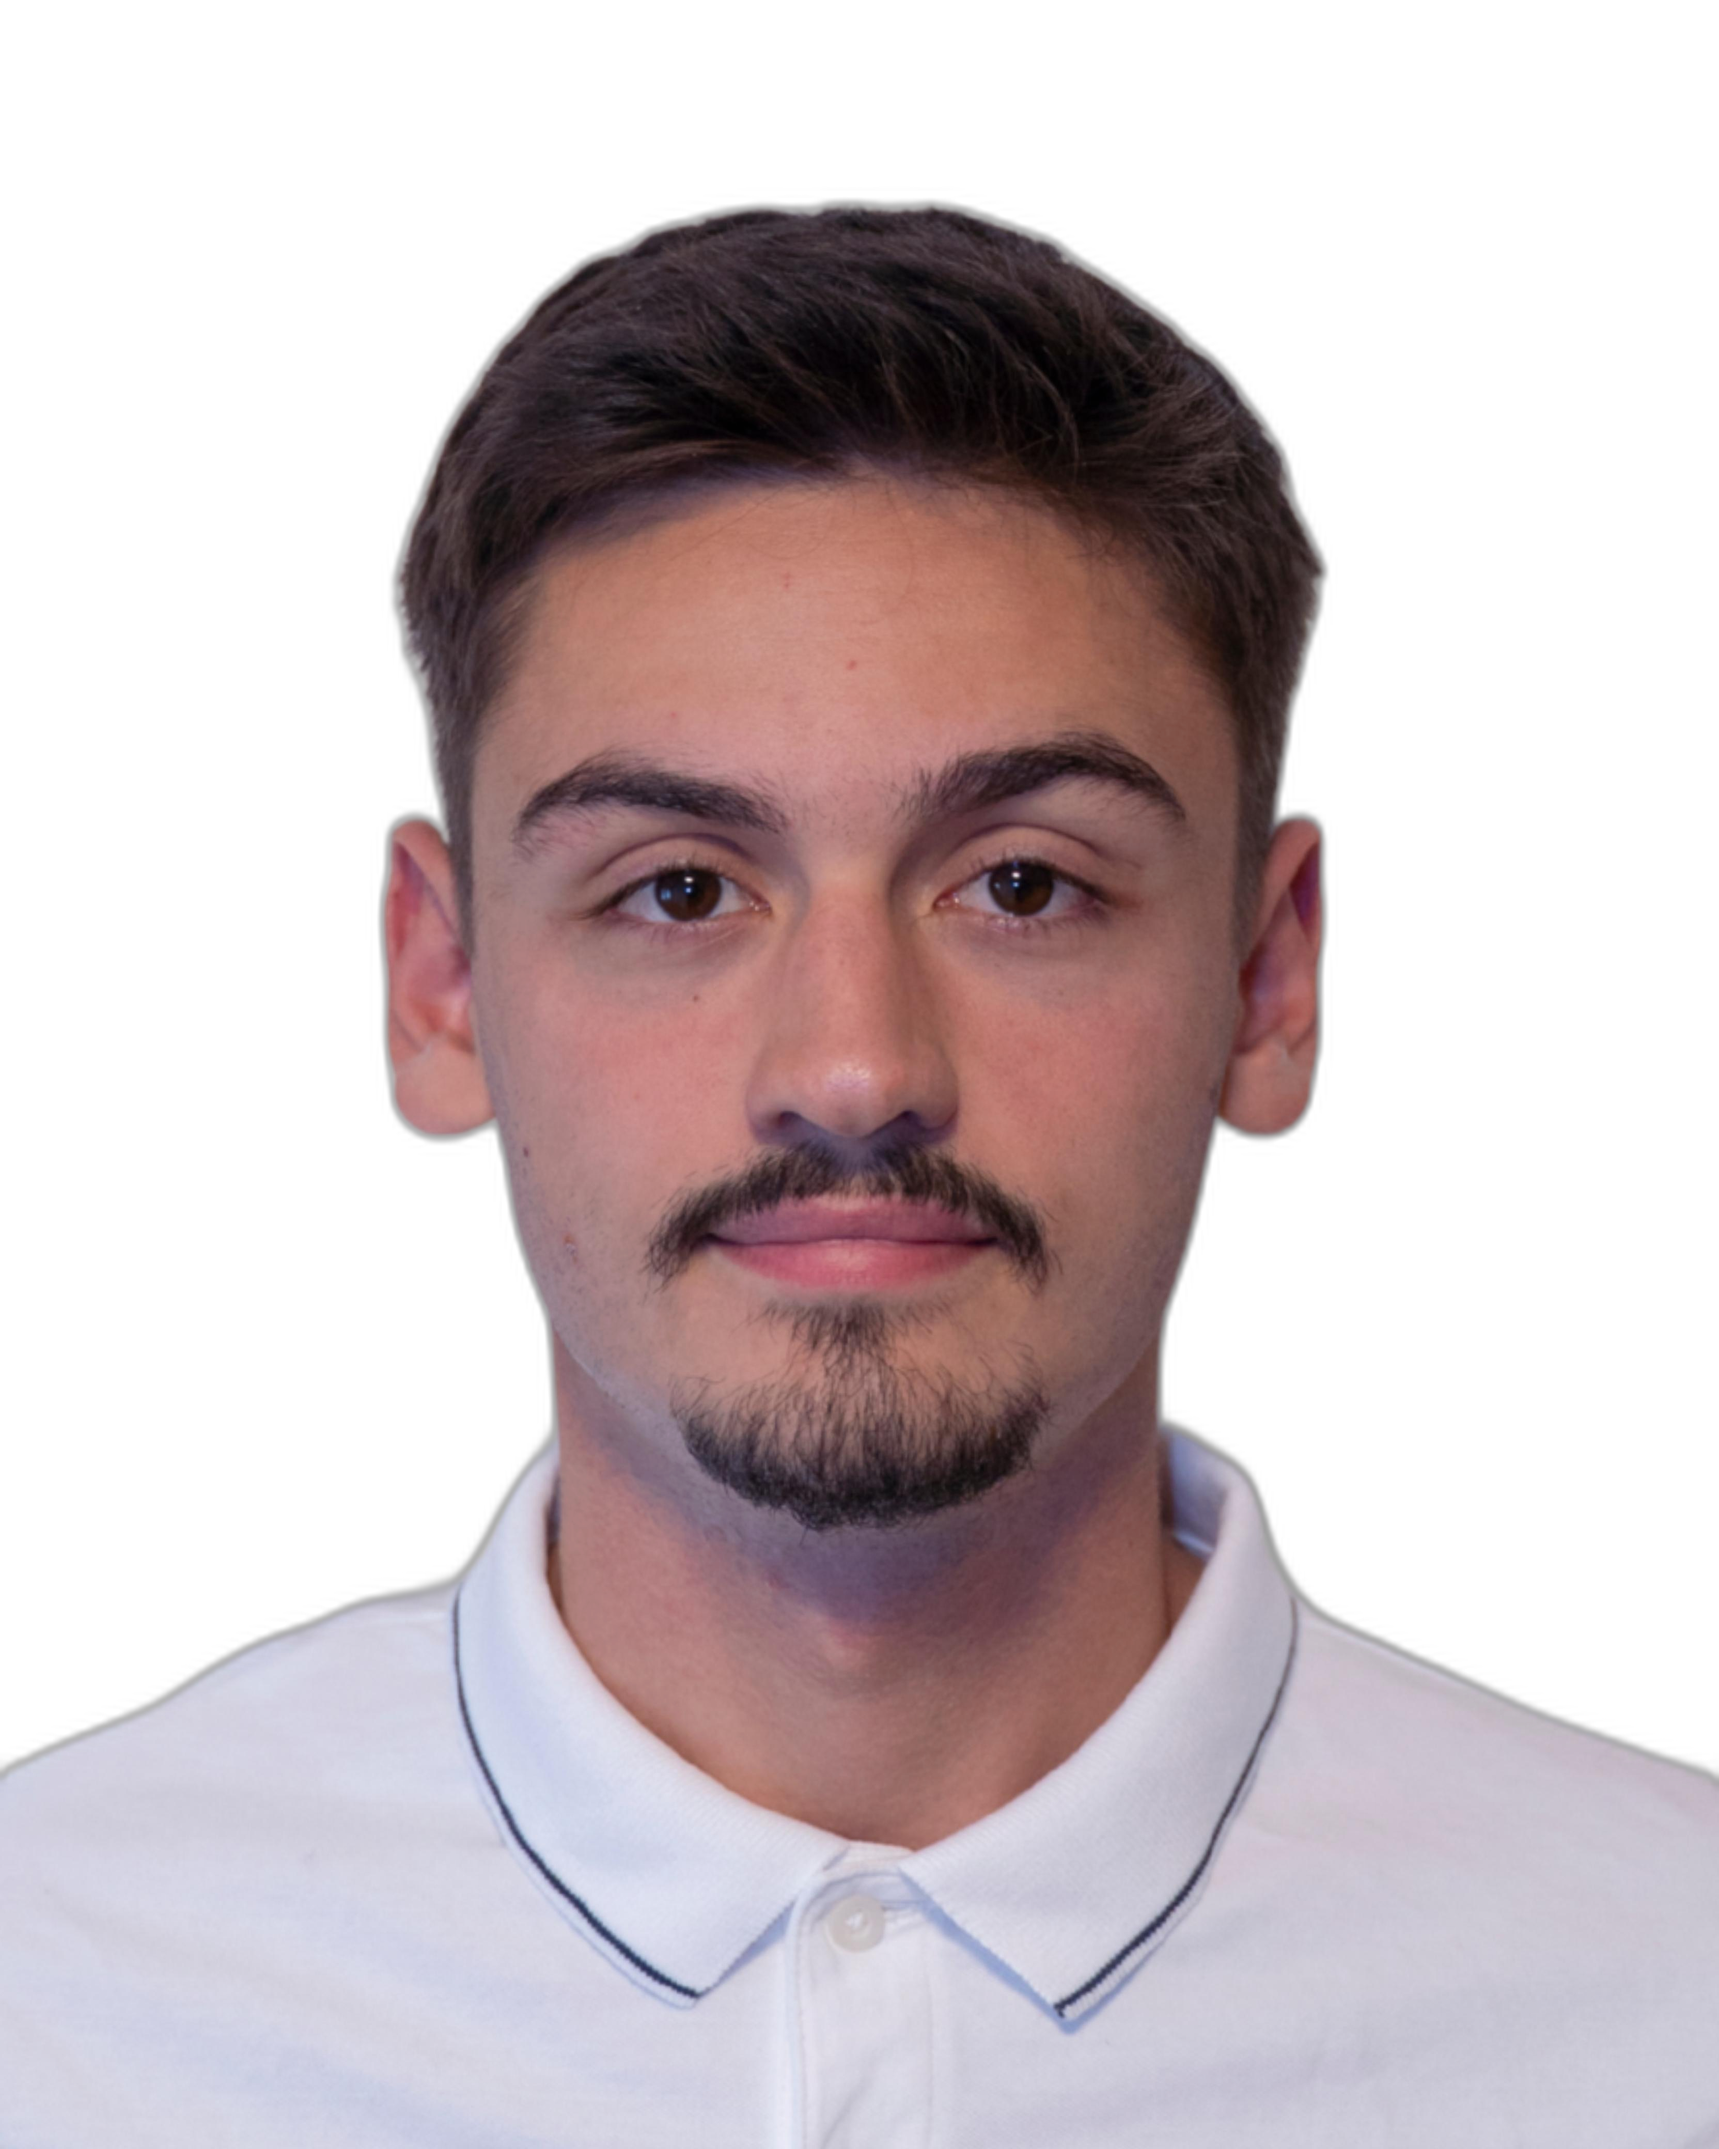
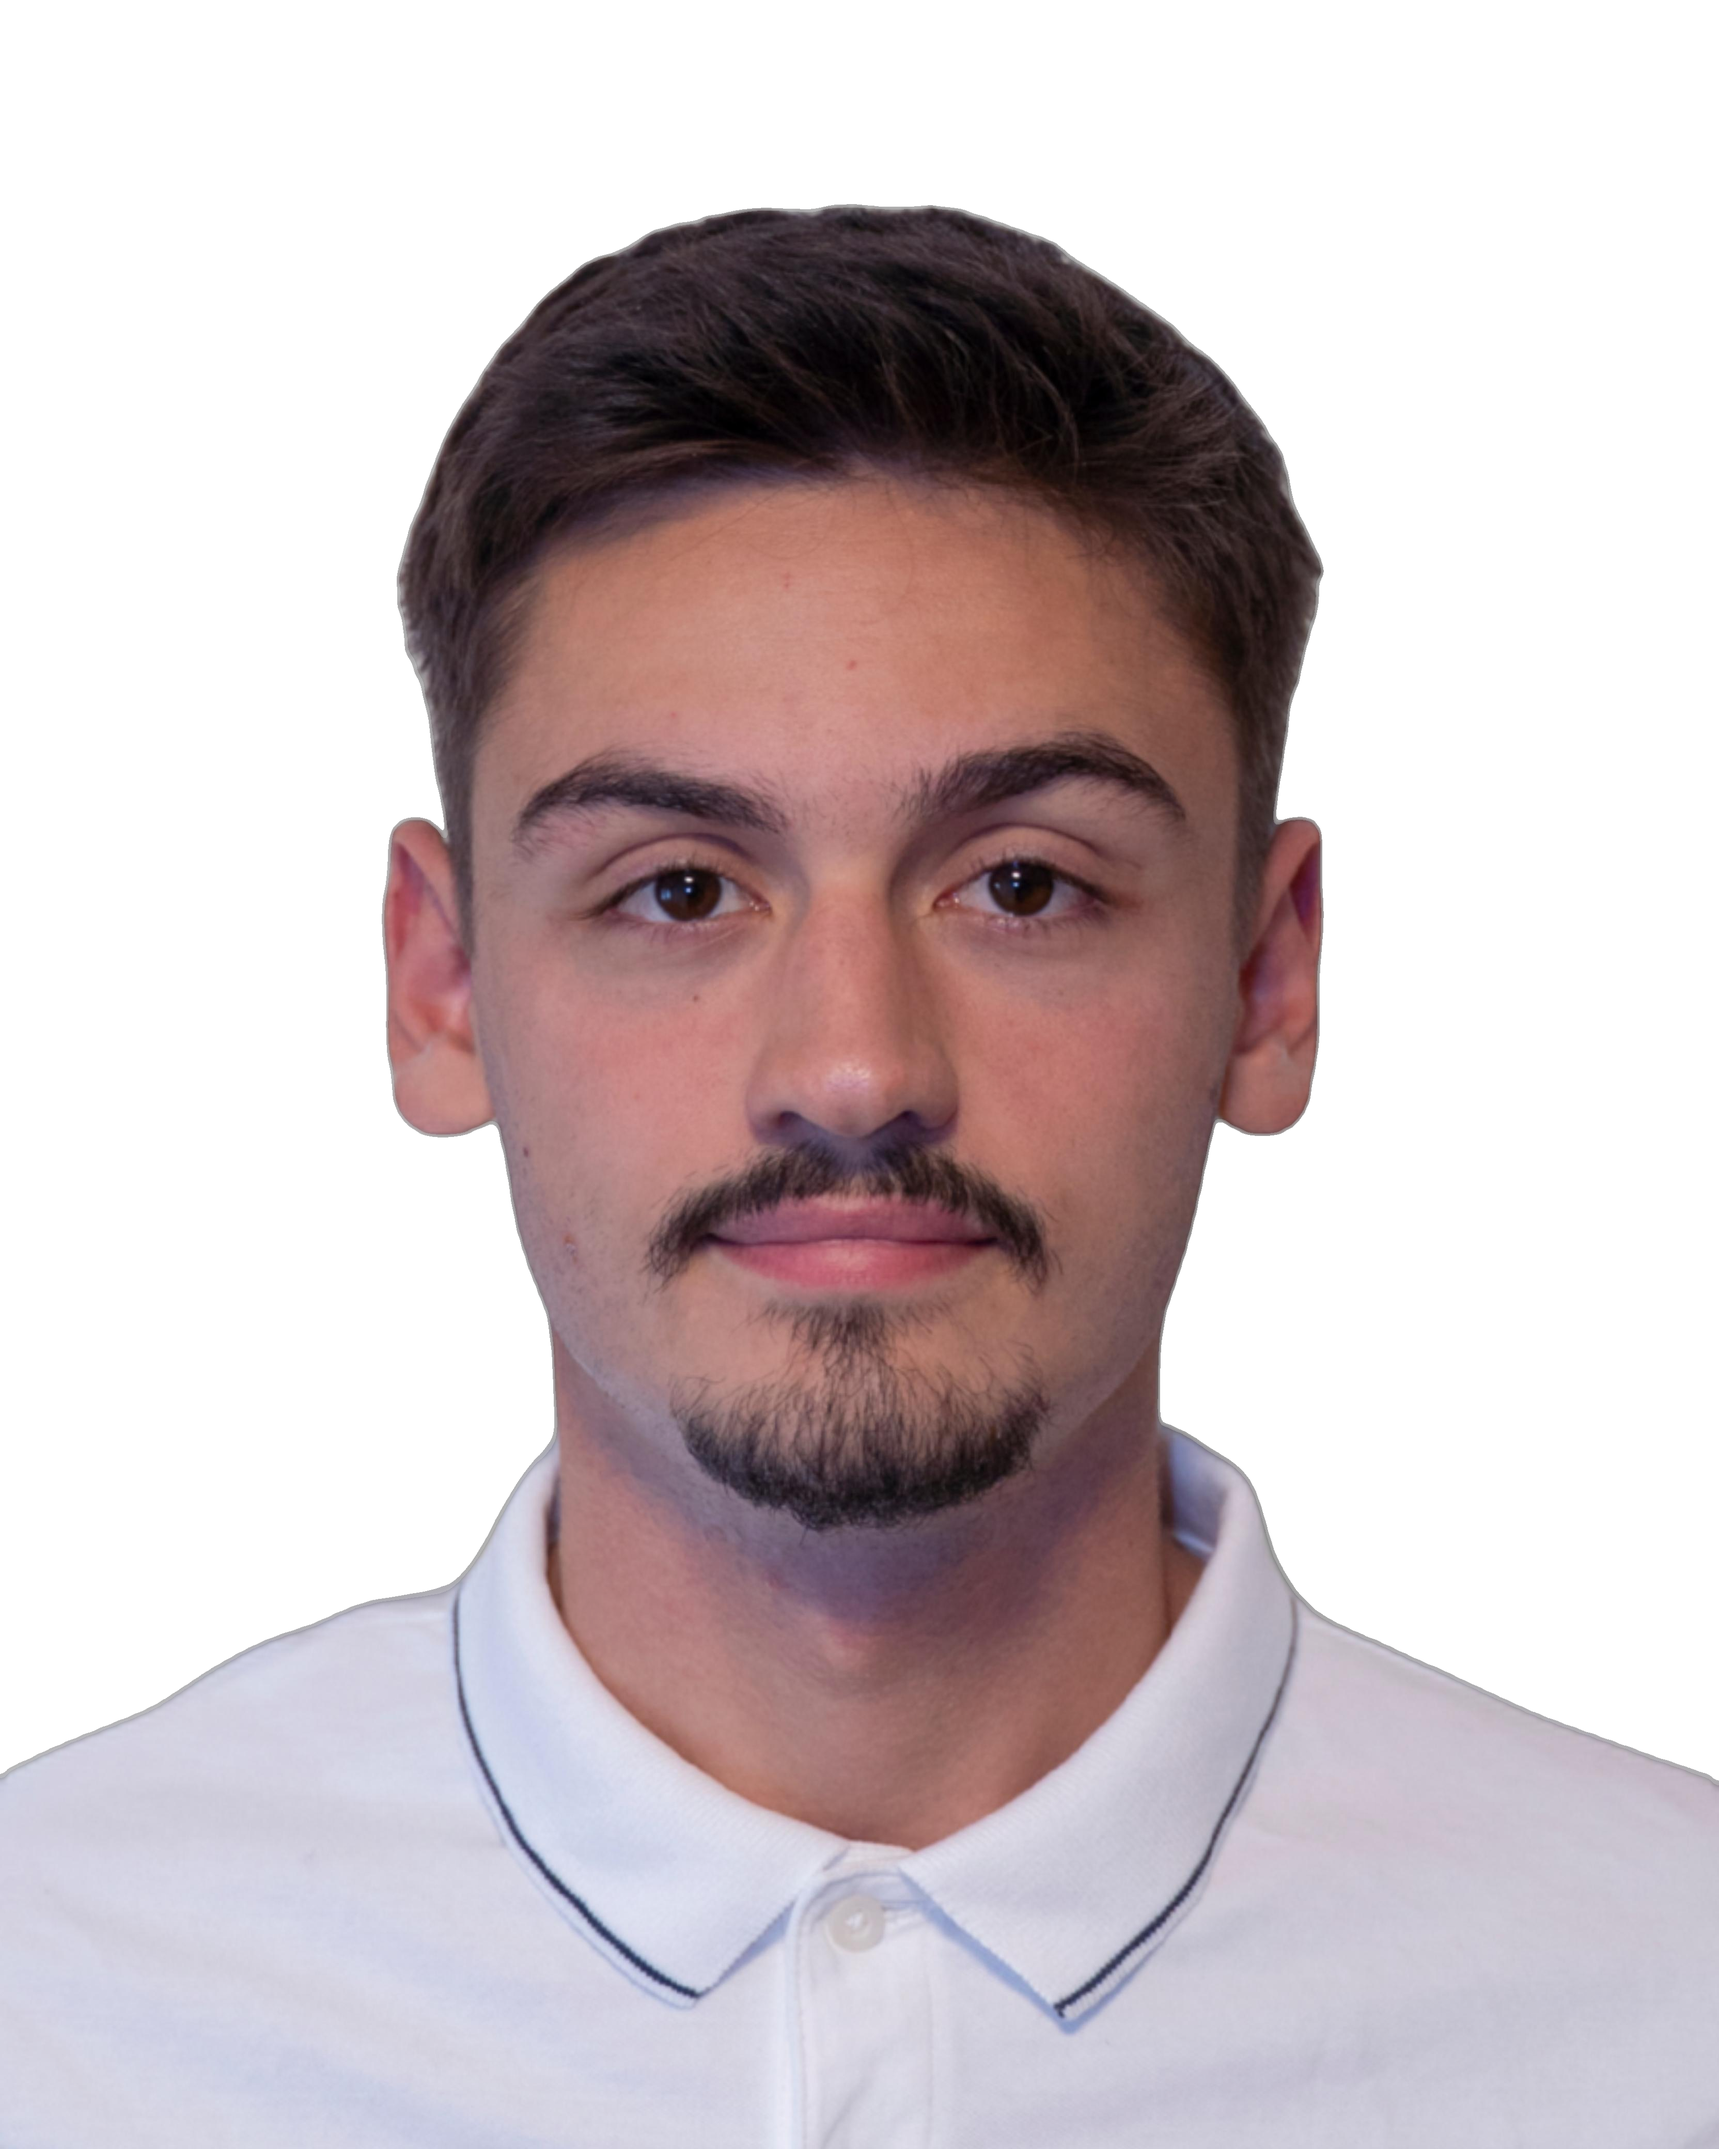
Redesign About section: portrait in white circle, clean layout
- Portrait displayed in white circular frame (180px mobile / 210px desktop)
- Removed floating badge and glow effects for cleaner presentation
- Stats row placed below portrait, properly aligned
- Regenerated portrait-nobg.png with improved background removal

diff --git a/app/page.tsx b/app/page.tsx
@@ -196,54 +196,63 @@ function LeistungenSection() {
 
 function AboutSection({ onContact }: { onContact: () => void }) {
   return (
-    <section id="about" className="py-10 md:py-32 bg-[#080808] border-t border-[#111]">
+    <section id="about" className="py-12 md:py-32 bg-[#080808] border-t border-[#111]">
       <div className="max-w-7xl mx-auto px-5 md:px-6 lg:px-10">
-        <div className="grid grid-cols-1 lg:grid-cols-2 gap-10 lg:gap-20 items-center">
+        <div className="grid grid-cols-1 lg:grid-cols-[1fr_1.2fr] gap-10 lg:gap-20 xl:gap-28 items-end">
 
-          {/* Photo */}
-          <motion.div
-            initial={{ opacity: 0, x: -40 }}
-            whileInView={{ opacity: 1, x: 0 }}
-            viewport={{ once: true }}
-            transition={{ duration: 0.9, ease: [0.16, 1, 0.3, 1] }}
-            className="relative flex justify-center lg:justify-start"
-          >
-            {/* Accent background shape */}
-            <div className="absolute bottom-0 left-1/2 -translate-x-1/2 lg:left-8 lg:translate-x-0 w-[240px] md:w-[300px] lg:w-[340px] h-[300px] md:h-[380px] lg:h-[440px] bg-[#CAFF00]/10 rounded-2xl" />
-            {/* eslint-disable-next-line @next/next/no-img-element */}
-            <img
-              src="/projects/portrait-nobg.png"
-              alt="DigitalFrame – Gründer"
-              className="relative z-10 w-[220px] md:w-[280px] lg:w-[340px] object-contain drop-shadow-2xl"
-            />
-            {/* Floating badge */}
-            <motion.div
-              initial={{ opacity: 0, scale: 0.8 }}
-              whileInView={{ opacity: 1, scale: 1 }}
-              viewport={{ once: true }}
-              transition={{ delay: 0.5, duration: 0.5 }}
-              className="absolute bottom-6 right-4 md:right-8 lg:-right-4 z-20 bg-[#0E0E0E] border border-[#1a1a1a] rounded-xl px-4 py-3 shadow-xl"
-            >
-              <div className="text-[#CAFF00] font-bold text-lg" style={{ fontFamily: "var(--font-syne)" }}>50+</div>
-              <div className="text-[#999] text-xs tracking-widest uppercase" style={{ fontFamily: "var(--font-outfit)" }}>Projekte</div>
-            </motion.div>
-          </motion.div>
-
-          {/* Text */}
+          {/* Portrait column */}
           <motion.div
             initial={{ opacity: 0, y: 30 }}
             whileInView={{ opacity: 1, y: 0 }}
             viewport={{ once: true }}
-            transition={{ duration: 0.8, ease: [0.16, 1, 0.3, 1], delay: 0.1 }}
+            transition={{ duration: 0.9, ease: [0.16, 1, 0.3, 1] }}
+          >
+            {/* Photo frame – white circle */}
+            <div className="flex justify-center lg:justify-start">
+              <div
+                className="w-[180px] h-[180px] md:w-[210px] md:h-[210px] rounded-full overflow-hidden bg-white shrink-0"
+                style={{ boxShadow: "0 0 0 4px #ffffff, 0 0 0 6px #1a1a1a" }}
+              >
+                {/* eslint-disable-next-line @next/next/no-img-element */}
+                <img
+                  src="/projects/porträit.jpg"
+                  alt="Gründer von DigitalFrame"
+                  className="w-full h-full object-cover object-top"
+                />
+              </div>
+            </div>
+
+            {/* Stats below photo */}
+            <div className="mt-6 flex gap-8 justify-center lg:justify-start">
+              {[
+                { num: "50+", label: "Projekte" },
+                { num: "100%", label: "Zufrieden" },
+                { num: "3×", label: "Conversions" },
+              ].map((s) => (
+                <div key={s.label}>
+                  <div className="font-bold text-xl text-[#F0EDE8]" style={{ fontFamily: "var(--font-syne)" }}>{s.num}</div>
+                  <div className="text-xs text-[#555] tracking-widest uppercase mt-0.5" style={{ fontFamily: "var(--font-outfit)" }}>{s.label}</div>
+                </div>
+              ))}
+            </div>
+          </motion.div>
+
+          {/* Text column */}
+          <motion.div
+            initial={{ opacity: 0, y: 30 }}
+            whileInView={{ opacity: 1, y: 0 }}
+            viewport={{ once: true }}
+            transition={{ duration: 0.8, ease: [0.16, 1, 0.3, 1], delay: 0.15 }}
+            className="pb-0 lg:pb-6"
           >
             <span className="text-[#CAFF00] text-xs tracking-[0.3em] uppercase inline-flex items-center gap-3 mb-4" style={{ fontFamily: "var(--font-outfit)" }}>
               <span className="w-8 h-px bg-[#CAFF00]" />Über mich
             </span>
-            <h2 className="text-[#F0EDE8] font-bold leading-tight mb-5" style={{ fontFamily: "var(--font-syne)", fontSize: "clamp(1.8rem, 4vw, 3rem)" }}>
+            <h2 className="text-[#F0EDE8] font-bold leading-tight mb-6" style={{ fontFamily: "var(--font-syne)", fontSize: "clamp(1.8rem, 4vw, 3rem)" }}>
               Ich baue Websites,<br />die <span className="text-[#CAFF00]">verkaufen.</span>
             </h2>
 
-            <div className="flex flex-col gap-4 text-[#999] text-sm md:text-base leading-relaxed" style={{ fontFamily: "var(--font-outfit)" }}>
+            <div className="flex flex-col gap-4 text-[#777] text-sm md:text-[0.95rem] leading-relaxed" style={{ fontFamily: "var(--font-outfit)" }}>
               <p>
                 Hallo, ich bin der Gründer von DigitalFrame. Mit Leidenschaft für modernes Web-Design und Technologie helfe ich Unternehmen, ihre digitale Präsenz auf das nächste Level zu bringen.
               </p>
@@ -253,11 +262,11 @@ function AboutSection({ onContact }: { onContact: () => void }) {
             </div>
 
             {/* Tags */}
-            <div className="flex flex-wrap gap-2 mt-6">
+            <div className="flex flex-wrap gap-2 mt-7">
               {["Next.js", "React", "3D Design", "UI/UX", "Branding", "SEO"].map((tag) => (
                 <span
                   key={tag}
-                  className="text-xs px-3 py-1.5 border border-[#1f1f1f] text-[#666] rounded-full"
+                  className="text-xs px-3 py-1.5 border border-[#1e1e1e] text-[#555] hover:border-[#CAFF00]/30 hover:text-[#CAFF00] transition-colors"
                   style={{ fontFamily: "var(--font-outfit)" }}
                 >
                   {tag}
